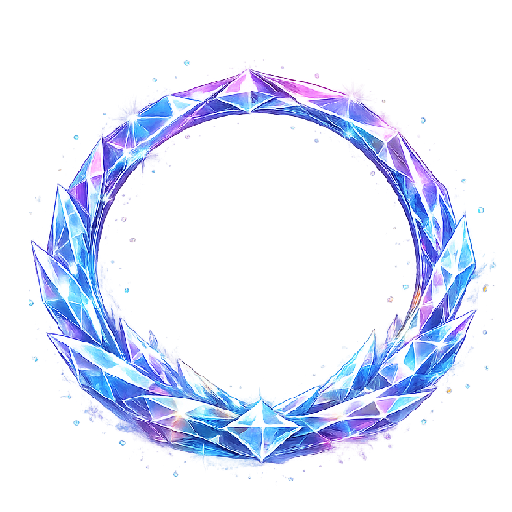
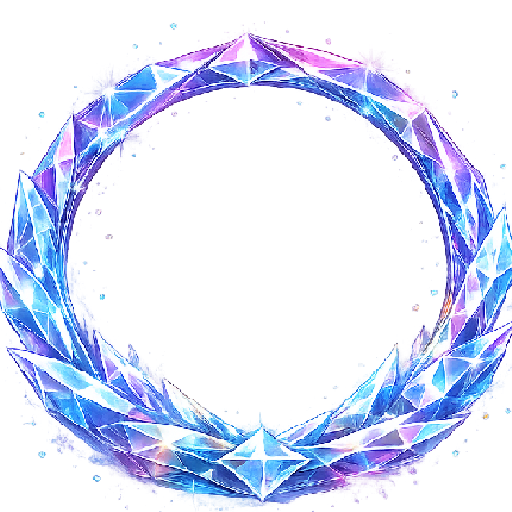
Ring sitzt jetzt ENG am Foto-Rand: alle 6 PNGs auf garantiert RUNDES Loch 60% normalisiert (kleinster Radius → keine Flammen ragen rein) + Ring auf 165% (Loch=Foto exakt, kein Spalt). Neuer Lava-Ring vom User; SW v295

diff --git a/bot.js b/bot.js
@@ -3156,7 +3156,7 @@ ${session ? `
 /* PNG-Ring: normalisierte Bilder (Loch 60% zentriert) → 167% zentriert übers volle Foto, Loch deckt es exakt */
 /* PNG-Ring liegt AUSSEN ums volle Profilbild (Bild wird NICHT verkleinert). PNGs normalisiert auf Loch 56%
    → bei 178% Größe ist das Loch = 100% des Fotos, das Ring-Band sitzt außerhalb. Gilt für ALLE Ringe gleich. */
-.cb-ring-png{position:absolute;left:50%;top:50%;transform:translate(-50%,-50%);width:185%;height:185%;object-fit:contain;pointer-events:none;z-index:6}
+.cb-ring-png{position:absolute;left:50%;top:50%;transform:translate(-50%,-50%);width:165%;height:165%;object-fit:contain;pointer-events:none;z-index:6}
 </style>
 <div class="tour-overlay" id="tour-ov" aria-hidden="true">
   <div class="tour-spotlight" id="tour-spotlight"></div>
@@ -5453,7 +5453,7 @@ async function run(){var b=document.getElementById('b'),o=document.getElementByI
     if (path === '/sw.js') {
         res.writeHead(200, {'Content-Type':'application/javascript','Service-Worker-Allowed':'/','Cache-Control':'no-cache'});
         return res.end(`
-const SW_VERSION='v294-no-black';
+const SW_VERSION='v295-tight-fit';
 const STATIC_CACHE='cb-static-' + SW_VERSION;
 const IMAGE_CACHE='cb-images-' + SW_VERSION;
 self.addEventListener('install',()=>self.skipWaiting());
